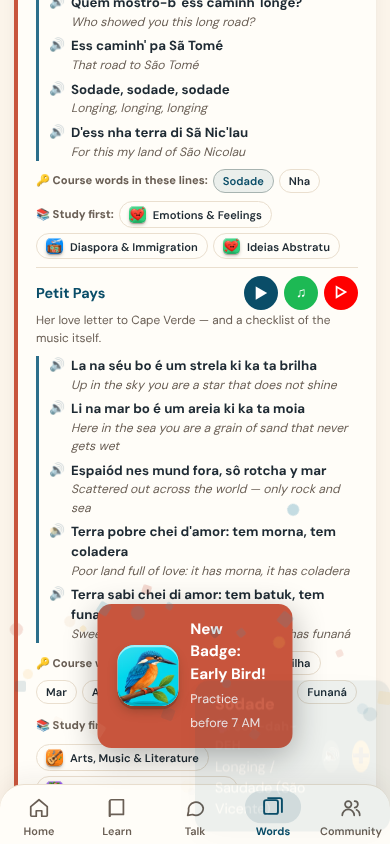
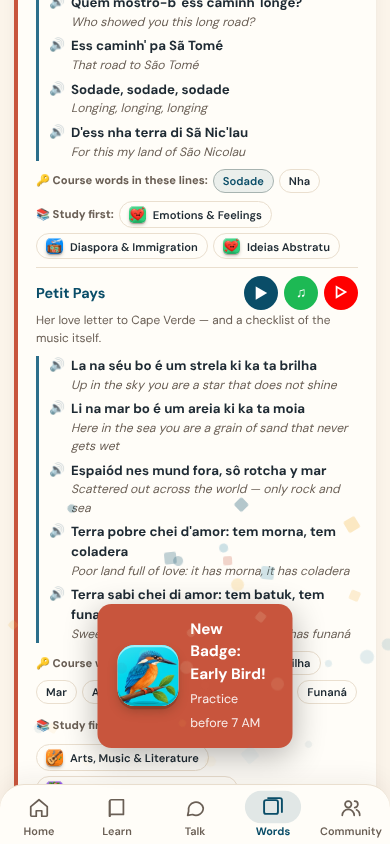
Kriolu listening: stop ending the recording at a tap or a breath
The recorder decided the learner had started talking at the first noise and
stopped after 1.2 s of quiet, so a hesitant start sent an almost empty clip
(the live logs showed requests shrinking from 0.8 s to 0.2 s). Speech now has
to be loud enough, three readings in a row, and above the room's own noise;
the clip needs 1.5 s and a 1.4 s pause to end. A recorder that never reports
it stopped is finished after 2 s, a stale one cannot block the mic, and a
blocked level meter falls back to a fixed seven seconds. AI tutor setup shows
the last tries on the phone, and the function logs sizes (never words).

Claude-Session: https://claude.ai/code/session_014J2cTPbcBdrtKcVoWtzBoX

diff --git a/index.html b/index.html
@@ -4498,7 +4498,7 @@ function playSound(type) {
 // ═══════════════════════════════════════════
 // Which build is actually running. Without this there is no way to tell a
 // fix that did not work from a fix that never arrived.
-const APP_BUILD = 'v171';
+const APP_BUILD = 'v172';
 // Compares the code that is running with the server's build. The version lives in
 // sw.js (CACHE_NAME), which is a few KB, and stamp-build.js copies it into APP_BUILD on
 // every deploy, so the two always agree. Runs on start-up, when the app returns to the
@@ -8834,38 +8834,53 @@ function ensureVoiceConsent() {
   return yes;
 }
 let activeClip = null;
-// Record until the learner stops talking (or taps stop, or maxMs). Resolves to a Blob, or null if nothing usable.
+// Record until the learner stops talking (or taps stop, or maxMs). Resolves to a clip whose .done is a Blob, or null.
+// Speech counts only when it is loud enough, for long enough, and above the room's own noise, so a tap or a breath
+// at the start is not mistaken for talking; the clip ends after a pause that follows real speech.
 async function recordClip(maxMs) {
+  // A recorder left over from a failed attempt must never block the next one
+  if (activeClip && Date.now() - activeClip.t0 > maxMs + 4000) { try { activeClip.stop(); } catch (e) {} activeClip = null; }
   const stream = await navigator.mediaDevices.getUserMedia({ audio: { echoCancellation: true, noiseSuppression: true } });
   const mime = ['audio/webm;codecs=opus', 'audio/webm', 'audio/mp4', 'audio/ogg;codecs=opus'].find(t => MediaRecorder.isTypeSupported(t));
   const rec = new MediaRecorder(stream, mime ? { mimeType: mime } : {});
-  const chunks = [];
+  const chunks = [], t0 = Date.now();
   rec.ondataavailable = e => { if (e.data && e.data.size) chunks.push(e.data); };
-  let ctx = null, timer = null;
-  const clip = { stopped: false, stop() { if (!this.stopped) { this.stopped = true; try { rec.state !== 'inactive' && rec.stop(); } catch (e) {} } } };
-  const done = new Promise(resolve => {
-    rec.onstop = () => {
-      clearInterval(timer); stream.getTracks().forEach(t => t.stop()); try { ctx && ctx.close(); } catch (e) {}
-      if (activeClip === clip) activeClip = null;
-      resolve(chunks.length ? new Blob(chunks, { type: rec.mimeType || mime || 'audio/webm' }) : null);
-    };
-  });
-  // Stop on its own once they have spoken and then gone quiet
+  let ctx = null, timer = null, finished = false, resolveDone;
+  const done = new Promise(r => { resolveDone = r; });
+  const clip = { t0, stopped: false, vad: false, heardSpeech: false, done,
+    stop() {
+      if (this.stopped) return; this.stopped = true;
+      try { if (rec.state !== 'inactive') rec.stop(); } catch (e) {}
+      setTimeout(finish, 2000);                       // if the recorder never says it stopped, finish anyway
+    } };
+  function finish() {
+    if (finished) return; finished = true;
+    clearInterval(timer); stream.getTracks().forEach(t => t.stop()); try { ctx && ctx.close(); } catch (e) {}
+    if (activeClip === clip) activeClip = null;
+    resolveDone(chunks.length ? new Blob(chunks, { type: rec.mimeType || mime || 'audio/webm' }) : null);
+  }
+  rec.onstop = finish; rec.onerror = () => clip.stop();
+  stream.getTracks().forEach(t => { t.onended = () => clip.stop(); });
   try {
     ctx = new (window.AudioContext || window.webkitAudioContext)();
+    if (ctx.state === 'suspended') await ctx.resume().catch(() => {});
+    if (ctx.state !== 'running') throw new Error('no level meter');
     const an = ctx.createAnalyser(); an.fftSize = 1024; ctx.createMediaStreamSource(stream).connect(an);
-    const buf = new Uint8Array(an.fftSize), t0 = Date.now(); let spoke = false, lastVoice = t0;
+    const buf = new Uint8Array(an.fftSize), quiet = []; let loud = 0, lastVoice = t0;
+    clip.vad = true;
     timer = setInterval(() => {
       an.getByteTimeDomainData(buf);
       let peak = 0; for (let i = 0; i < buf.length; i++) peak = Math.max(peak, Math.abs(buf[i] - 128));
-      const now = Date.now();
-      if (peak > 9) { spoke = true; lastVoice = now; }
-      if ((spoke && now - lastVoice > 1200) || (!spoke && now - t0 > 6000) || now - t0 > maxMs) clip.stop();
+      const now = Date.now(), age = now - t0;
+      if (age < 450) { quiet.push(peak); return; }                       // learn how noisy the room is first
+      quiet.sort((a, b) => a - b);
+      const above = peak > Math.max(14, (quiet[Math.floor(quiet.length / 2)] || 0) + 10);
+      if (above) { lastVoice = now; if (++loud >= 3) clip.heardSpeech = true; } else loud = 0;
+      if ((clip.heardSpeech && now - lastVoice > 1400 && age > 1500) || (!clip.heardSpeech && age > 7000) || age > maxMs) clip.stop();
     }, 90);
-  } catch (e) { setTimeout(() => clip.stop(), Math.min(maxMs, 6000)); }   // no level meter: record for a fixed time
+  } catch (e) { setTimeout(() => clip.stop(), Math.min(maxMs, 7000)); }  // no level meter: record for a fixed time
   activeClip = clip;
   rec.start(250);
-  clip.done = done;
   return clip;
 }
 // A recorded clip → Kriolu text (throws if the service cannot be reached)
@@ -8879,22 +8894,36 @@ async function transcribeClip(blob) {
 }
 // One go at listening: start recording, report progress, resolve to the text ('' if nothing was said).
 // Rejects with {denied:true} when the mic is blocked, or {fallback:true} when the browser recognizer should be used.
+// The last few tries, kept on this phone, so a "it stopped working" report can be traced (shown in AI tutor setup)
+function sttNote(entry) {
+  try {
+    const log = JSON.parse(localStorage.getItem('kriolu_stt_log') || '[]'); log.push({ at: new Date().toTimeString().slice(0, 8), ...entry });
+    localStorage.setItem('kriolu_stt_log', JSON.stringify(log.slice(-8)));
+  } catch (e) {}
+}
 async function listenKriolu(maxMs, onRecording, onSending) {
   let clip;
   try { clip = await recordClip(maxMs); }
-  catch (e) { throw { denied: /NotAllowed|Permission|Security/i.test(String(e && (e.name || e.message))), error: e }; }
+  catch (e) { sttNote({ err: String(e && (e.name || e.message)).slice(0, 40) }); throw { denied: /NotAllowed|Permission|Security/i.test(String(e && (e.name || e.message))), error: e }; }
   onRecording && onRecording(clip);
   const blob = await clip.done;
-  if (!blob) return '';
+  const secs = +((Date.now() - clip.t0) / 1000).toFixed(1);
+  if (!blob) { sttNote({ secs, none: 1 }); return ''; }
   onSending && onSending();
-  try { return await transcribeClip(blob); }
+  try { const text = await transcribeClip(blob); sttNote({ secs, kb: Math.round(blob.size / 1024), vad: clip.vad ? 1 : 0, speech: clip.heardSpeech ? 1 : 0, chars: text.length }); return text; }
   catch (e) {
+    sttNote({ secs, kb: Math.round(blob.size / 1024), err: String(e && e.message).slice(0, 30) });
     if (sttServer === false) throw { fallback: true };
     if (String(e && e.message) === 'stt-unavailable') { sttSkipOnce = true; throw { fallback: true }; }
     throw { failed: true, error: e };
   }
 }
 function stopActiveClip() { if (activeClip) activeClip.stop(); }
+// Is a recording really in progress? One left over from a failed attempt (older than any recording can last) is cleared.
+function clipBusy() {
+  if (activeClip && Date.now() - activeClip.t0 > 25000) { try { activeClip.stop(); } catch (e) {} activeClip = null; }
+  return !!activeClip;
+}
 
 async function startSpeakCheck() {
   if (state.awaitingNext) return;
@@ -8907,7 +8936,7 @@ async function startSpeakCheck() {
   if (window.speechSynthesis) window.speechSynthesis.cancel();
 
   // Kriolu recognizer: tapping the mic again while it records stops it early
-  if (activeClip) { stopActiveClip(); return; }
+  if (clipBusy()) { stopActiveClip(); return; }
   if (canListenKriolu() && ensureVoiceConsent()) {
     const aStatus = document.getElementById('antonio-status');
     const back = () => { micBtn.classList.remove('listening'); micBtn.textContent = '🎤'; };
@@ -11697,6 +11726,12 @@ async function claudeFetch(body, tier) {
 // connection powers, on top of the same localStorage key the chat and
 // translate panels already read/write, so all three stay in sync.
 // The Kriolu-aware microphone: what it does with the voice, and a switch
+function sttLogHTML() {
+  let log = []; try { log = JSON.parse(localStorage.getItem('kriolu_stt_log') || '[]'); } catch (e) {}
+  if (!log.length) return '';
+  const line = e => escapeHTML([e.at, e.secs != null ? e.secs + 's' : '', e.kb != null ? e.kb + ' KB' : '', e.chars != null ? (e.chars ? e.chars + ' letters' : 'no words') : '', e.none ? 'no audio' : '', e.err ? 'problem: ' + e.err : ''].filter(Boolean).join(' · '));
+  return `<div style="margin-top:10px;padding-top:9px;border-top:1px solid var(--border);font-size:.68rem;color:var(--muted);line-height:1.6"><b>Last tries on this phone</b><br>${log.slice().reverse().map(line).join('<br>')}</div>`;
+}
 function renderListenCard() {
   const el = document.getElementById('ai-listen-card');
   if (!el) return;
@@ -11707,7 +11742,7 @@ function renderListenCard() {
     <div style="flex:1;min-width:0"><div style="font-weight:800;font-size:.85rem">Kriolu listening ${on ? '· on' : voiceChoice() === 'no' ? '· off' : ''}</div>
     <div style="font-size:.74rem;color:var(--muted);line-height:1.45;margin-top:3px">The phone's own recognizer only knows Portuguese. With this on, the mic sends a short recording of your voice to a speech service (ElevenLabs) that knows Kriolu. The app does not keep recordings. Used in the Kriolu course only.</div></div>
     <button class="due-btn" style="flex:none;padding:8px 14px;font-size:.76rem" onclick="setVoiceChoice('${on ? 'no' : 'yes'}');renderListenCard()">${on ? 'Turn off' : 'Turn on'}</button>
-  </div>`;
+  </div>${sttLogHTML()}`;
 }
 function renderAiSetup() {
   const connected = !!getApiKey();
@@ -13825,7 +13860,7 @@ async function shadowRepeat(i, target) {
   const SR = window.SpeechRecognition || window.webkitSpeechRecognition;
   const resultEl = document.getElementById('shadow-result-' + i);
   const btn = document.getElementById('shadow-rec-' + i);
-  if (activeClip) { stopActiveClip(); return; }
+  if (clipBusy()) { stopActiveClip(); return; }
   if (canListenKriolu() && ensureVoiceConsent()) {
     userHasInteracted = true;
     if (window.speechSynthesis) window.speechSynthesis.cancel();

diff --git a/sw.js b/sw.js
@@ -1,5 +1,5 @@
 // Kriolu PWA Service Worker
-const CACHE_NAME = 'kriolu-v171';
+const CACHE_NAME = 'kriolu-v172';
 const APP_SHELL = [
   './',
   './index.html',
